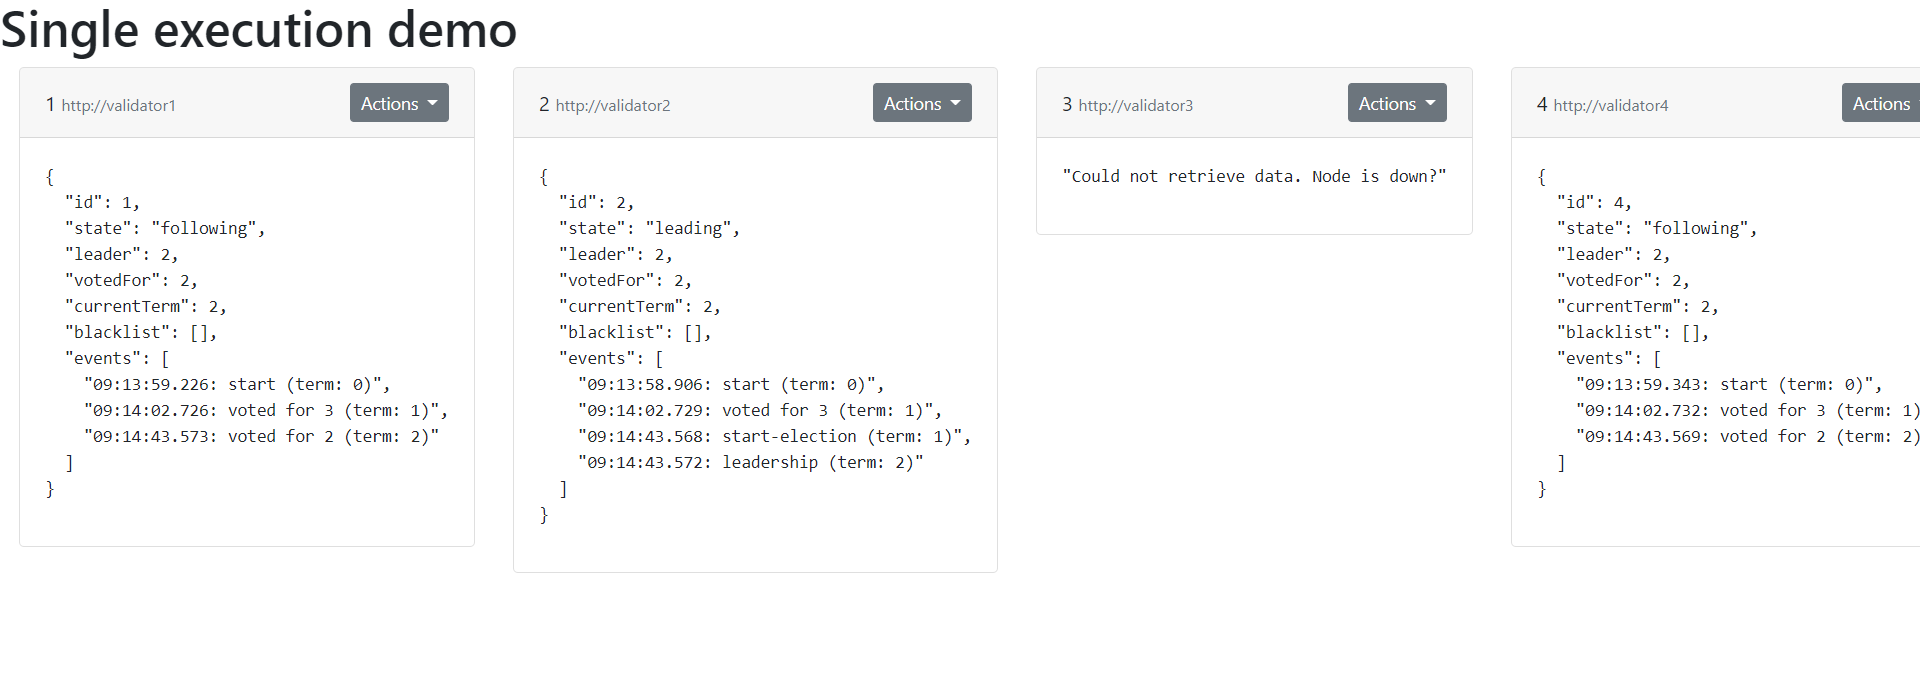
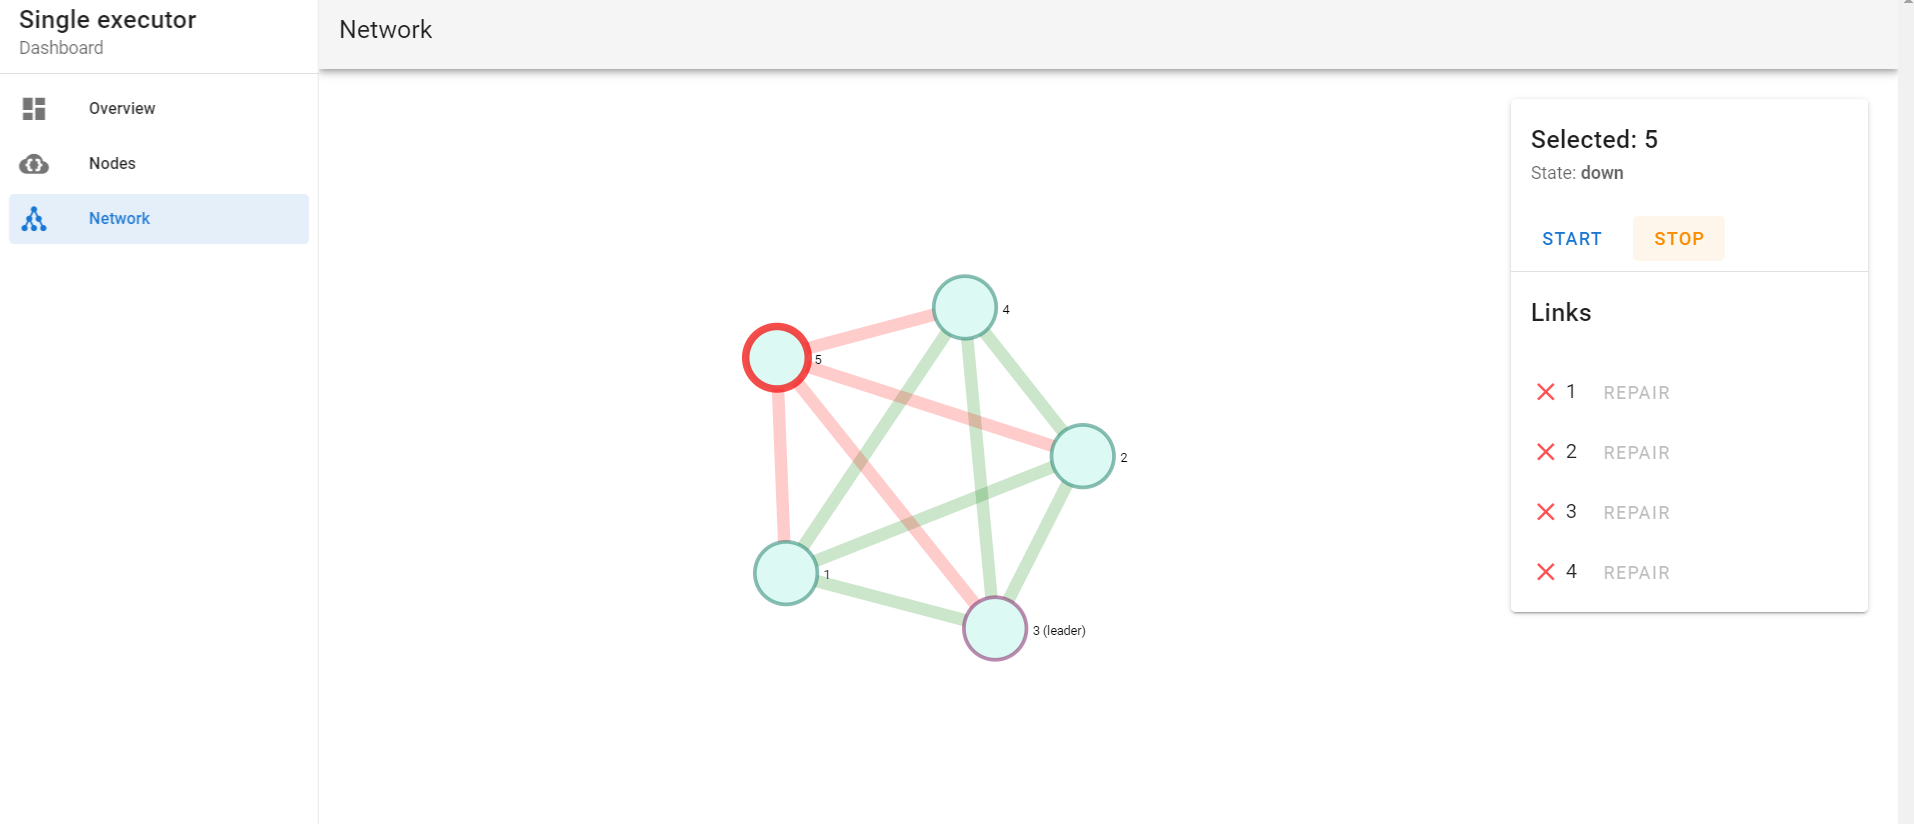
Updated screenshots for the new dashboard

diff --git a/README.md b/README.md
@@ -101,19 +101,17 @@ Then navigate to `http://localhost:8081/dashboard`.
 
 ### Dashboard
 
-**These screenshots are old. A new dashboard is in development.**
-
 Each watchdog instance state is displayed,
 
 ![Dashboard preview 1](doc/dashboard-preview-1.png)
 
-The event log for each indicates what has happened. For example, here
-we have killed the leader and the system has elected a new leader,
+Here we have hit `Stop` on the leader (`5`), and the network has resolved a new leader (`3`),
 
 ![Dashboard preview 2](doc/dashboard-preview-2.png)
 
-Network issues can be simulated by blocking access to individual 
-nodes on the network. This can be used to test split brain conditions,
+We can also enable/disable individual network links between nodes. In this case, we have broken
+links between the leader (`3`) and some of its followers. Because `3` can no longer reached a majority
+consensus on its leadership, it relinquishes leader state and `4` wins the next election,
 
 ![Dashboard preview 3](doc/dashboard-preview-3.png)
 
